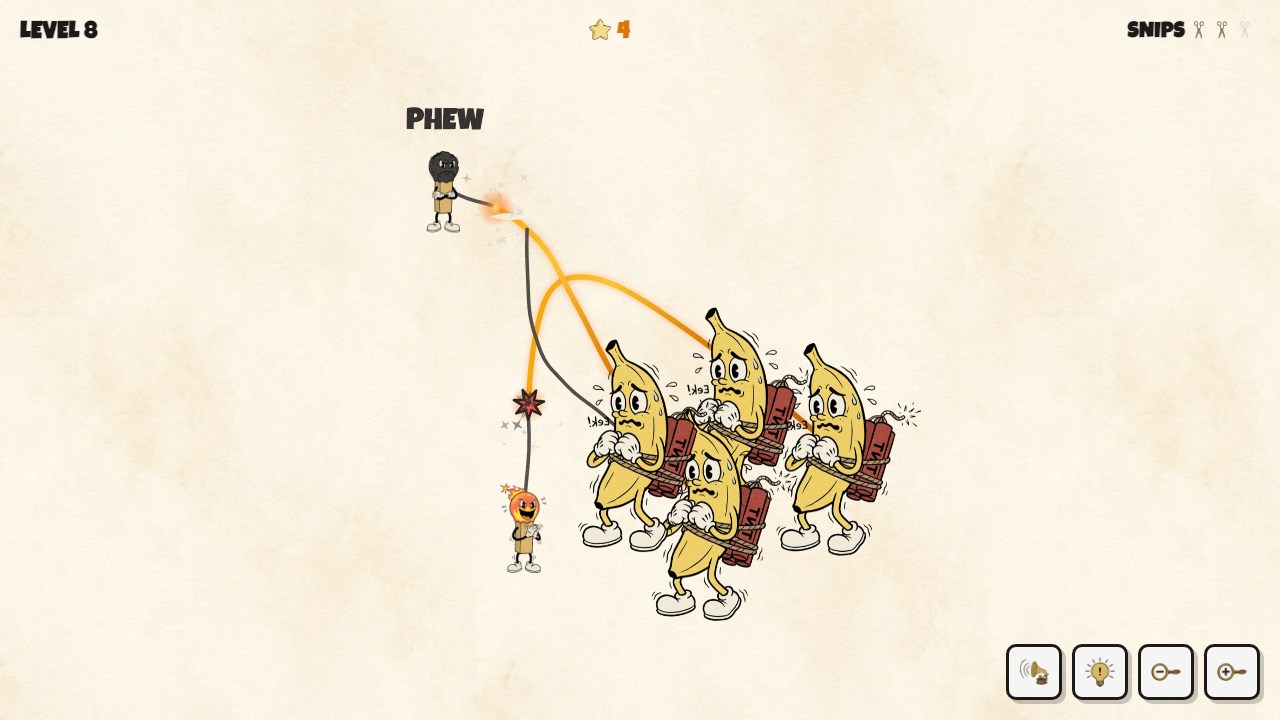
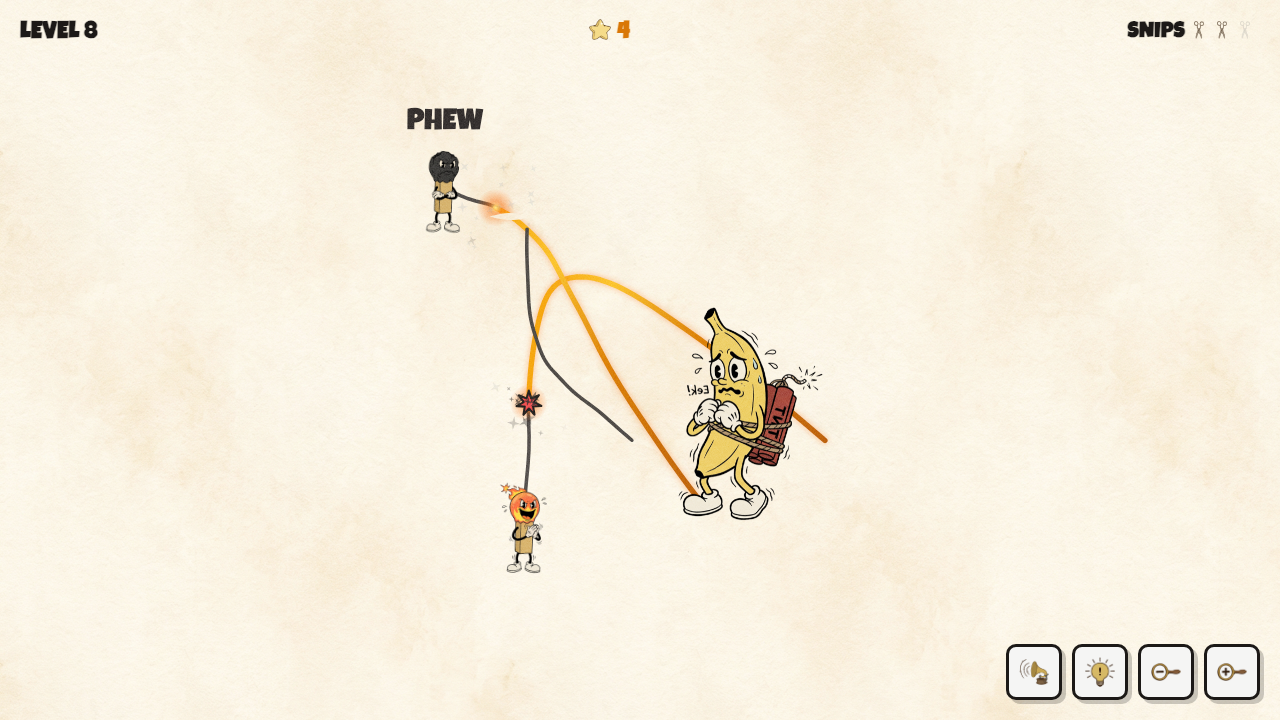
Fix duplicate bombs: entry anchors are invisible, never payload nodes
The new entry anchors were typed "payload", and _drawAssets renders a
bomb PNG for every payload-type node — so the game drew a banana at each
anchor, stacking several bombs. Entries are now type "entry": the
renderer skips them, the explosion still triggers when a spark reaches
one (GameLoop accepts entry ends), and the comic text / matchstick
facing still anchor to the single real payload node. Added a smoke check
that every level has exactly one payload node.

diff --git a/src/engine/LevelManager.js b/src/engine/LevelManager.js
@@ -111,13 +111,13 @@ export function buildLevel(config, viewport, assets = null) {
 
     // Entry anchors (bomb-side landing points). Each wick ends at its OWN
     // anchor on a ring around the bomb art, so wicks enter from different
-    // sides instead of funneling into the center. Type "payload" so a spark
-    // reaching its anchor triggers the explosion, exactly like reaching the
-    // bomb center did before.
+    // sides instead of funneling into the center. Type "entry": reaching one
+    // triggers the explosion (GameLoop), but nothing is DRAWN here — the bomb
+    // art lives at the real payload node only.
     for (const e of config.entries || []) {
         const node = {
             id: e.id,
-            type: "payload",
+            type: "entry",
             x: cx + (e.x ?? 0),
             y: cy + (e.y ?? 0),
         };

diff --git a/src/engine/GameLoop.js b/src/engine/GameLoop.js
@@ -449,7 +449,7 @@ export class GameLoop {
             }
 
             if (spark.progress >= 1) {
-                if (fuse.endNode.type === "payload") {
+                if (fuse.endNode.type === "payload" || fuse.endNode.type === "entry") {
                     this._finishLevel(false);
                     return;
                 }
